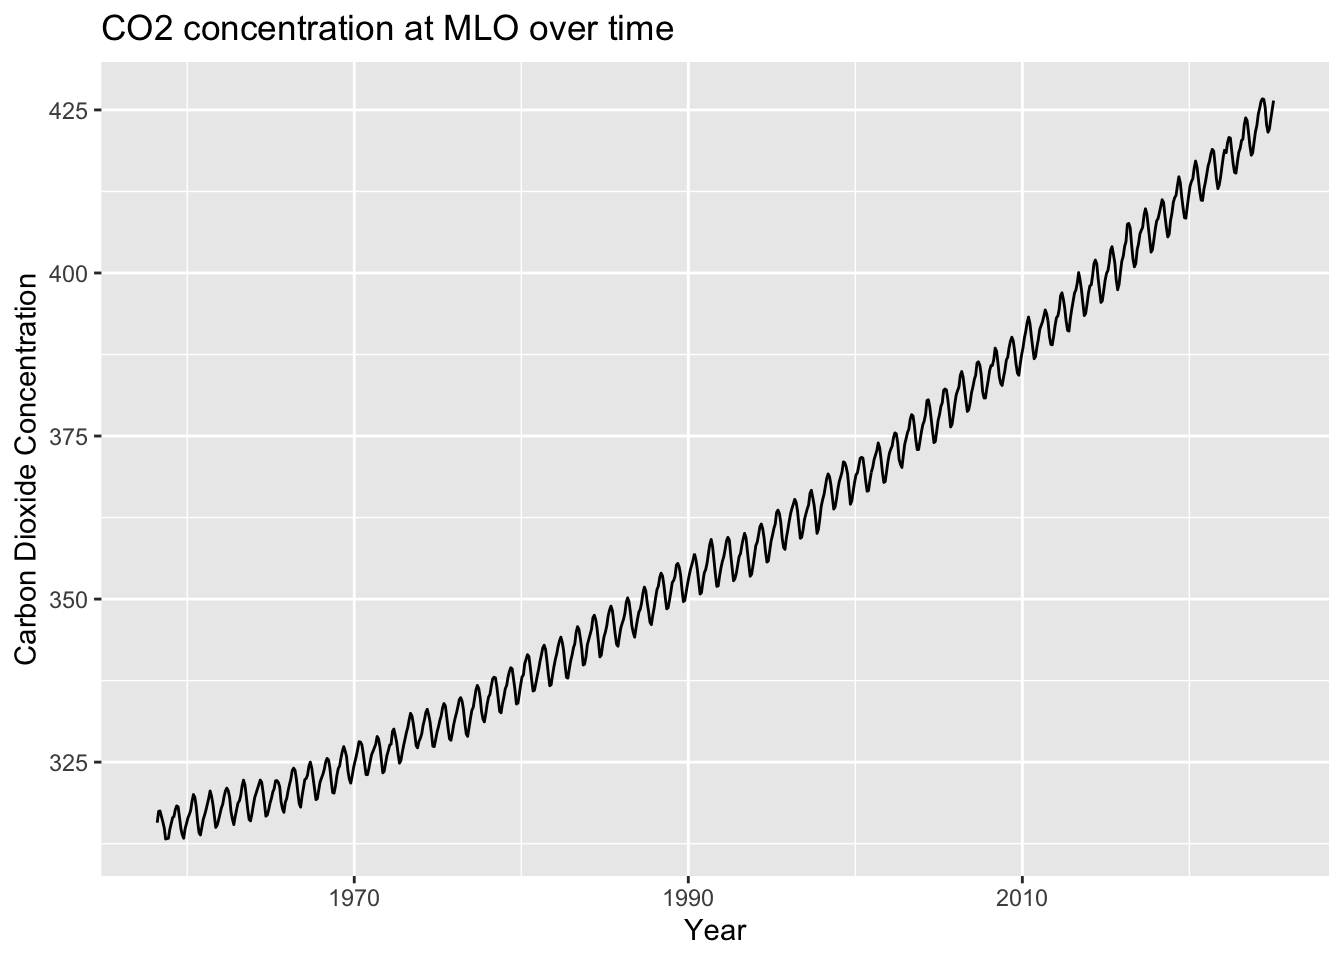
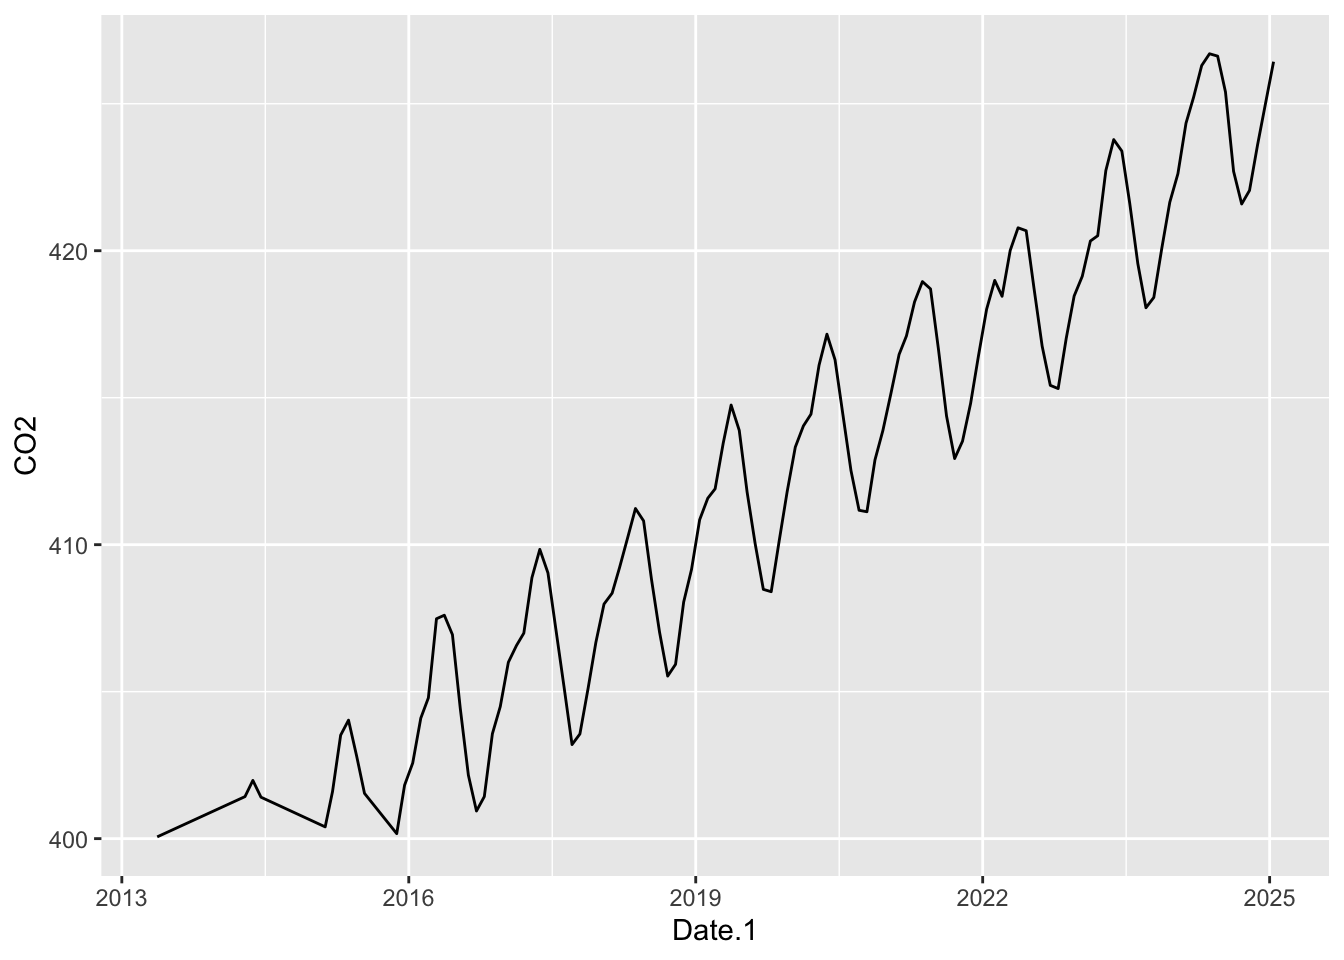
Focus plot on 400+ CO2 and change theme

diff --git a/Analyze_MLO.html b/Analyze_MLO.html
@@ -71,10 +71,10 @@ ul.task-list li input[type="checkbox"] {
 </header>
 
 
-<section id="analysis" class="level2">
-<h2 class="anchored" data-anchor-id="analysis">Analysis</h2>
-<p>This analysis will look at the CO2 Data from Maunaloa</p>
-<p>now that the data are loaded, lets make a plot.</p>
+<section id="analysis-of-co2-at-maunaloa-over-time" class="level2">
+<h2 class="anchored" data-anchor-id="analysis-of-co2-at-maunaloa-over-time">Analysis of CO2 at Maunaloa over time</h2>
+<p>This analysis will look at the CO2 Data at Maunaloa over time.</p>
+<p>Now that the data are loaded, we will make a plot of time on the x axis and CO2 concentration on the y axis using ggplot.</p>
 <div class="cell">
 <div class="cell-output-display">
 <div>
@@ -83,7 +83,11 @@ ul.task-list li input[type="checkbox"] {
 </figure>
 </div>
 </div>
+<div class="cell-output cell-output-stdout">
+<pre><code>NULL</code></pre>
 </div>
+</div>
+<p>The concentration of carbon dioxide goes up strongly over time from the first measurements in the late 1950s. It also shows a jigsaw pattern from the Northern Hemisphere deciduous leaf changes over the course of the year.</p>
 </section>
 
 </main>
